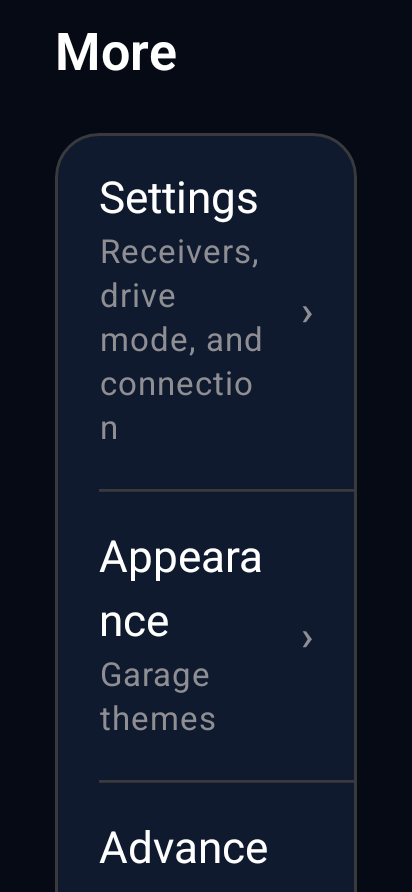
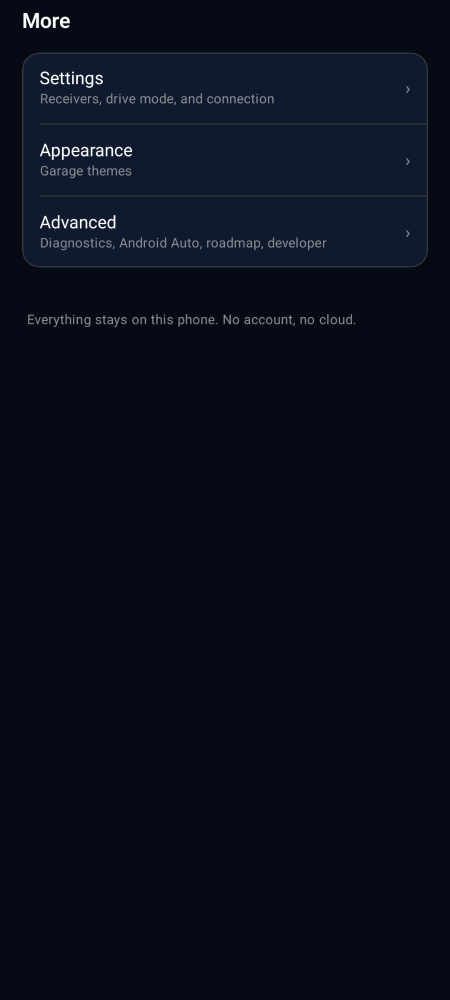
Fix README screenshots at full phone resolution.
Paparazzi was rendering at 412px wide so labels clipped; use Pixel 6 frame with fillMaxSize and a cleaner README gallery layout.

diff --git a/app/src/test/java/com/akrapovic/soundkit/community/ui/DocsScreenshotPaparazziTest.kt b/app/src/test/java/com/akrapovic/soundkit/community/ui/DocsScreenshotPaparazziTest.kt
@@ -1,5 +1,10 @@
 package com.akrapovic.soundkit.community.ui
 
+import androidx.compose.foundation.layout.fillMaxSize
+import androidx.compose.material3.MaterialTheme
+import androidx.compose.material3.Surface
+import androidx.compose.runtime.Composable
+import androidx.compose.ui.Modifier
 import app.cash.paparazzi.DeviceConfig
 import app.cash.paparazzi.Paparazzi
 import com.akrapovic.soundkit.community.domain.ConnectionState
@@ -22,18 +27,21 @@ import org.junit.Test
 /**
  * JVM screenshot tests for README / docs. Run [scripts/capture-docs-screenshots.sh]
  * to record PNGs into docs/screenshots/ (works without a device or emulator).
+ *
+ * Uses full [DeviceConfig.PIXEL_6] pixel dimensions (1080×2400) — do not override
+ * screenWidth/Height with dp-like values or text and buttons clip badly.
  */
 class DocsScreenshotPaparazziTest {
     @get:Rule
     val paparazzi = Paparazzi(
-        deviceConfig = DeviceConfig.PIXEL_5.copy(screenHeight = 892, screenWidth = 412),
-        theme = "android:Theme.Material.Light.NoActionBar",
+        deviceConfig = DeviceConfig.PIXEL_6,
+        theme = "android:Theme.Material.NoActionBar",
     )
 
     @Test
     fun onboardingRisk() {
         paparazzi.snapshot(name = "01-onboarding-risk") {
-            SoundKitTheme {
+            PhoneFrame {
                 OnboardingFlow(
                     blePermissionsGranted = false,
                     notificationsGranted = false,
@@ -51,7 +59,7 @@ class DocsScreenshotPaparazziTest {
     @Test
     fun vehicleSelection() {
         paparazzi.snapshot(name = "02-vehicle-selection") {
-            SoundKitTheme {
+            PhoneFrame {
                 VehicleSelectionContent(
                     selectedVehicleId = "audi-rs3",
                     onSelectVehicle = {},
@@ -63,7 +71,7 @@ class DocsScreenshotPaparazziTest {
     @Test
     fun scanReceivers() {
         paparazzi.snapshot(name = "03-scan-receivers") {
-            SoundKitTheme {
+            PhoneFrame {
                 ScanScreen(
                     state = SoundKitUiState(
                         isScanning = false,
@@ -91,7 +99,7 @@ class DocsScreenshotPaparazziTest {
     fun homeConnected() {
         val device = testDeviceForSmoke()
         paparazzi.snapshot(name = "04-home-connected") {
-            SoundKitTheme {
+            PhoneFrame {
                 ConnectedDeviceScreen(
                     state = SoundKitUiState(
                         connectionState = ConnectionState.Connected(device),
@@ -109,7 +117,7 @@ class DocsScreenshotPaparazziTest {
     @Test
     fun moreMenu() {
         paparazzi.snapshot(name = "05-more-menu") {
-            SoundKitTheme {
+            PhoneFrame {
                 MoreScreen(onNavigate = {})
             }
         }
@@ -118,7 +126,7 @@ class DocsScreenshotPaparazziTest {
     @Test
     fun advancedHub() {
         paparazzi.snapshot(name = "06-advanced-hub") {
-            SoundKitTheme {
+            PhoneFrame {
                 AdvancedScreen(onNavigate = {})
             }
         }
@@ -127,26 +135,38 @@ class DocsScreenshotPaparazziTest {
     @Test
     fun diagnosticsSupport() {
         paparazzi.snapshot(name = "07-diagnostics-support") {
-            SoundKitTheme {
+            PhoneFrame {
                 WithStubActivityResultRegistry {
                     DiagnosticsScreen(
-                    entries = listOf(
-                        DiagnosticsEntry(
-                            id = 1L,
-                            timestampMillis = 1_700_000_000_000L,
-                            level = DiagnosticsLevel.Info,
-                            message = "Connected to Akrapovic SoundKit",
+                        entries = listOf(
+                            DiagnosticsEntry(
+                                id = 1L,
+                                timestampMillis = 1_700_000_000_000L,
+                                level = DiagnosticsLevel.Info,
+                                message = "Connected to Akrapovic SoundKit",
+                            ),
+                            DiagnosticsEntry(
+                                id = 2L,
+                                timestampMillis = 1_700_000_001_000L,
+                                level = DiagnosticsLevel.Debug,
+                                message = "Valve state: OPEN",
+                            ),
                         ),
-                        DiagnosticsEntry(
-                            id = 2L,
-                            timestampMillis = 1_700_000_001_000L,
-                            level = DiagnosticsLevel.Debug,
-                            message = "Valve state: OPEN",
-                        ),
-                    ),
-                    onBuildReport = { "Sound Kit Community diagnostics report" },
+                        onBuildReport = { "Sound Kit Community diagnostics report" },
                     )
                 }
+            }
+        }
+    }
+
+    @Composable
+    private fun PhoneFrame(content: @Composable () -> Unit) {
+        SoundKitTheme {
+            Surface(
+                modifier = Modifier.fillMaxSize(),
+                color = MaterialTheme.colorScheme.background,
+            ) {
+                content()
             }
         }
     }

diff --git a/README.md b/README.md
@@ -16,19 +16,19 @@ Open-source Android app for the Akrapovič **Car Sound Kit** BLE receiver — a 
 | Support | Export diagnostics and email **support@appsforgood.net** |
 
 <p align="center">
-  <img src="docs/screenshots/01-onboarding-risk.png" alt="Onboarding setup" width="220" />
-  <img src="docs/screenshots/02-vehicle-selection.png" alt="Vehicle selection" width="220" />
-  <img src="docs/screenshots/03-scan-receivers.png" alt="Scan for receivers" width="220" />
+  <img src="docs/screenshots/04-home-connected.png" alt="Connected — valve open" width="320" />
 </p>
 
 <p align="center">
-  <img src="docs/screenshots/04-home-connected.png" alt="Connected home screen" width="220" />
-  <img src="docs/screenshots/05-more-menu.png" alt="More menu" width="220" />
-  <img src="docs/screenshots/06-advanced-hub.png" alt="Advanced hub" width="220" />
+  <img src="docs/screenshots/01-onboarding-risk.png" alt="First-launch setup" width="280" />
+  &nbsp;&nbsp;
+  <img src="docs/screenshots/03-scan-receivers.png" alt="Scan for receivers" width="280" />
 </p>
 
 <p align="center">
-  <img src="docs/screenshots/07-diagnostics-support.png" alt="Diagnostics and support" width="220" />
+  <img src="docs/screenshots/05-more-menu.png" alt="More menu" width="280" />
+  &nbsp;&nbsp;
+  <img src="docs/screenshots/07-diagnostics-support.png" alt="Diagnostics and support" width="280" />
 </p>
 
 ---

diff --git a/DOCS.md b/DOCS.md
@@ -29,7 +29,7 @@ Marketing screenshots for `docs/screenshots/` and the README are recorded with [
 ./scripts/capture-docs-screenshots.sh
 ```
 
-This runs `DocsScreenshotPaparazziTest`, writes goldens under `app/src/test/snapshots/images/`, and copies friendly filenames into `docs/screenshots/`. CI can gate regressions with `./gradlew :app:verifyPaparazziDebug`.
+This runs `DocsScreenshotPaparazziTest`, writes goldens under `app/src/test/snapshots/images/`, and copies friendly filenames into `docs/screenshots/`. Uses full `DeviceConfig.PIXEL_6` pixel dimensions — do not shrink `screenWidth`/`screenHeight` or buttons and labels clip. CI can gate regressions with `./gradlew :app:verifyPaparazziDebug`.
 
 **Note:** Compose UI tests on a physical device require Espresso; Android 16 (API 36) currently breaks Espresso's `InputManager` shim, so prefer Paparazzi for doc captures on bleeding-edge phones.
 
